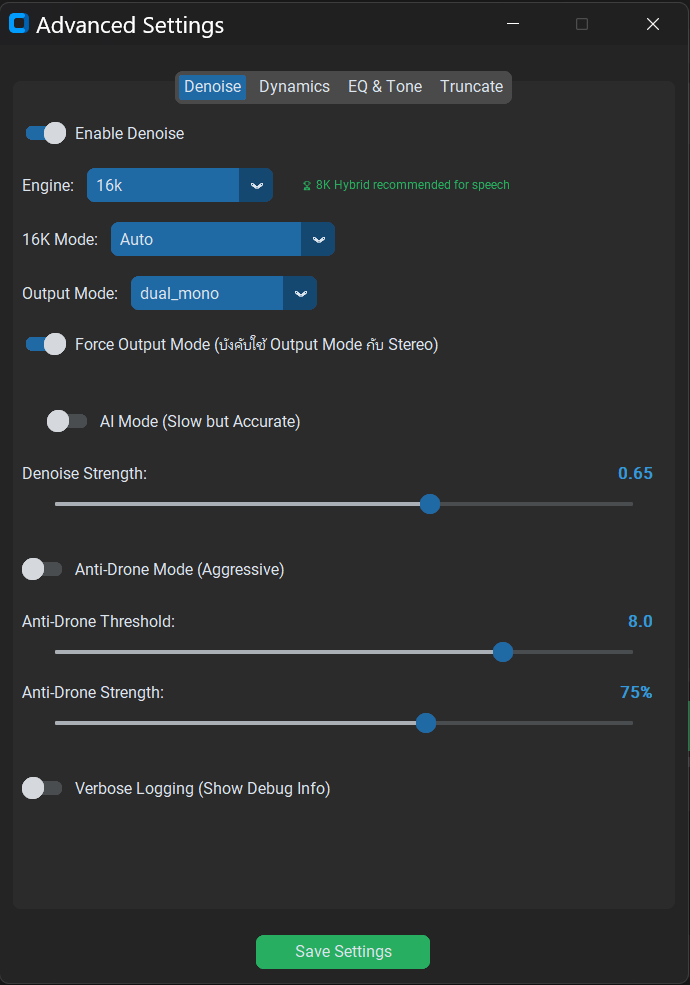
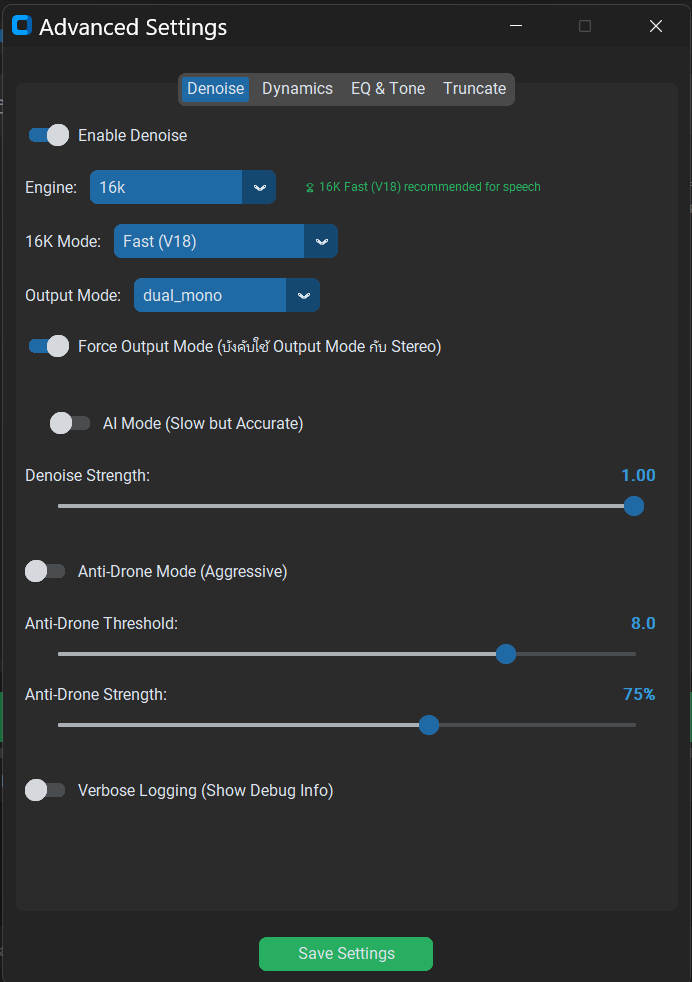
Update recommended engine to 16K Fast + Update screenshots

diff --git a/gui_enhancer_v4.py b/gui_enhancer_v4.py
@@ -244,8 +244,8 @@ class AdvancedSettingsWindow(ctk.CTkToplevel):
         self.engine_menu.set(current_engine)
         self.engine_menu.pack(side="left", padx=10)
         
-        # Status indicators - 8K is recommended
-        status_text = "🏆 8K Hybrid recommended for speech"
+        # Status indicators - 16K Fast is recommended
+        status_text = "🏆 16K Fast (V18) recommended for speech"
         status_color = "#27ae60"
         
         self.engine_status = ctk.CTkLabel(
